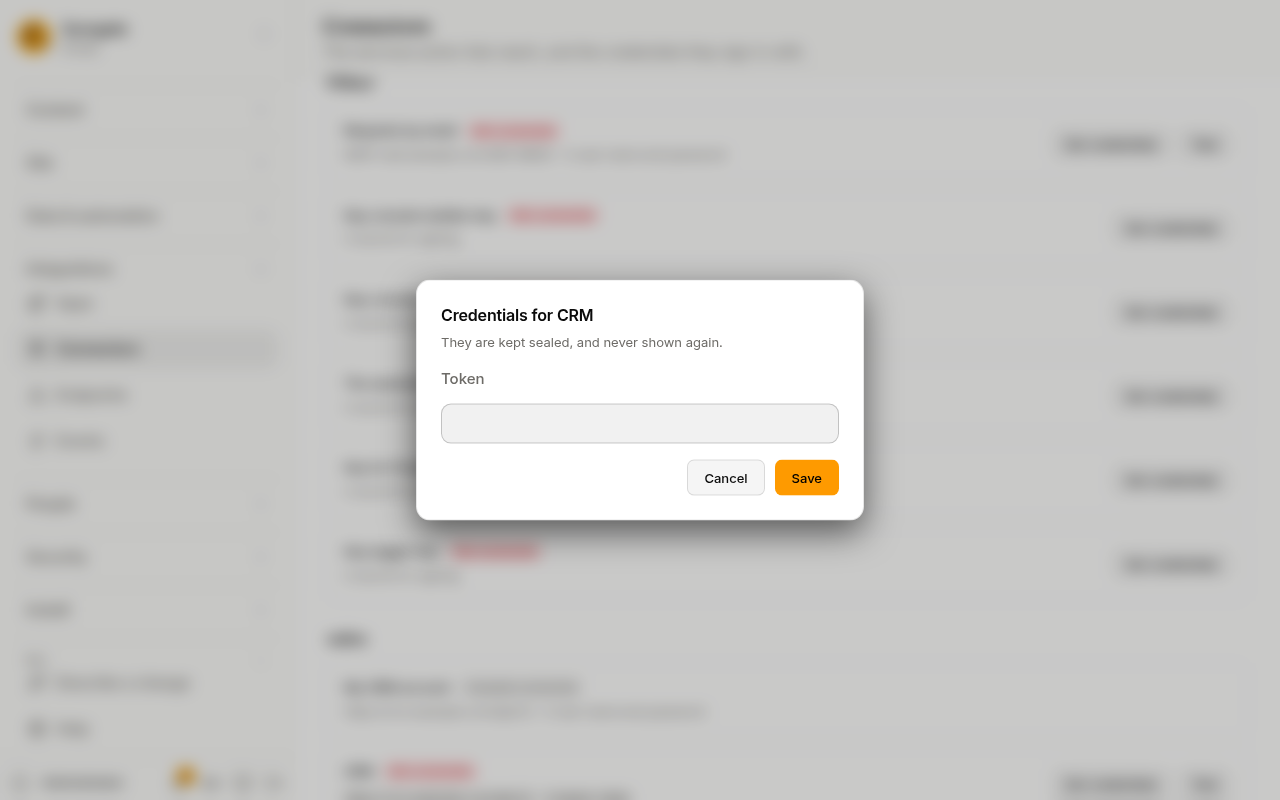
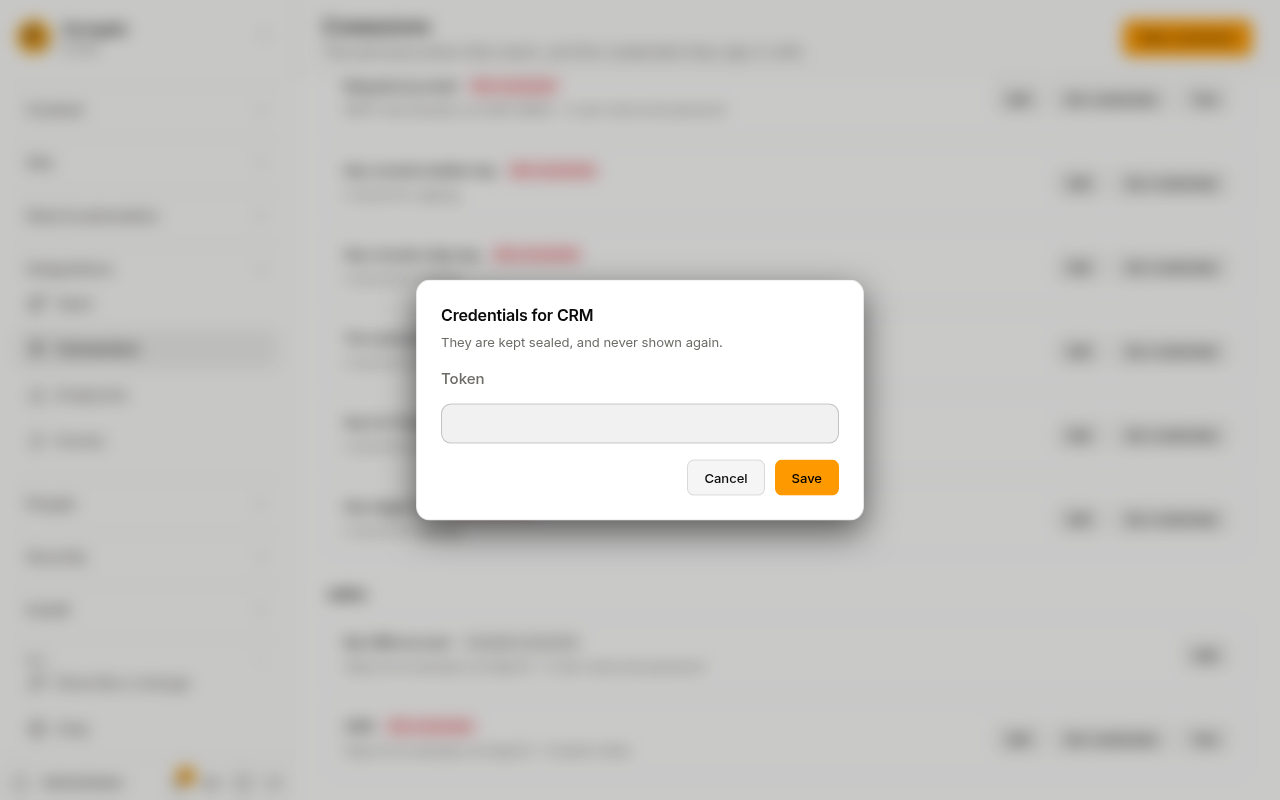
docs(portal): make and change connectors in the console

diff --git a/tests/test_content.py b/tests/test_content.py
@@ -415,8 +415,10 @@ class Content(unittest.TestCase):
                        'hashes-signatures-and-random-values', 'mailboxes', 'each-persons-own-account', 'in-tests'):
             self.assertIn(f'id="{anchor}"', doc)
         self.assertIn('id="a-connectors-file"', page('/portal/developer/connectors/'))
-        for anchor in ('set-credentials', 'test'):
+        for anchor in ('make-or-change-a-connector', 'set-credentials', 'test'):
             self.assertIn(f'id="{anchor}"', page('/portal/console/connectors/'))
+        # Connectors are made in the console.
+        self.assertNotIn('For now', (ROOT / 'src/content/docs/portal/sites/connectors.md').read_text())
         self.assertIn('id="your-connections"', page('/portal/console/account/'))
         self.assertIn('href="/portal/sites/connectors/#call-a-service"', page('/portal/sites/actions/'))
         for path in ('sites/connectors.md', 'console/connectors.md'):

diff --git a/src/content/docs/portal/sites/connectors.md b/src/content/docs/portal/sites/connectors.md
@@ -9,7 +9,7 @@ A connector is a named connection to a service outside the portal: a CRM, a paym
 
 **Administrators** see the portal's connectors under [Connectors](/portal/console/connectors/) in the console, grouped by the group each connector is given. Each shows its name, its address, how it signs in, and whether it is connected:
 
-![The Connectors page: the mailbox "Requests by email" and several keys, each marked Not connected with Set credentials, and below them the group sales with "My CRM account" and "CRM".](../../../../assets/screenshots/portal-connectors-console.png)
+![The Connectors page with New connector: Cloud archive, Requests by email and the portal's keys, each Not connected, each with Edit and Set credentials, and Test for those that can be tested.](../../../../assets/screenshots/portal-connectors-console.png)
 
 **Set credentials** asks for what the connector's sign-in needs. A token, here, for a connector that signs in with one:
 
@@ -27,7 +27,7 @@ A connector is one of these kinds:
 - a secret connector is a key the portal signs with, which makes no calls;
 - a mailbox connector is a mail address a [job](/portal/sites/jobs/#when-mail-arrives) reads (see [Mailboxes](#mailboxes)).
 
-The console lists connectors and sets their credentials, but it does not make or change a connector yet. For now, this is set in the site's configuration: see [Developer: Connectors](/portal/developer/connectors/#a-connectors-file).
+Connectors are made, changed and given their credentials in the console: see [Connectors](/portal/console/connectors/#make-or-change-a-connector). Developers can also write it in the site's configuration: see [Developer: Connectors](/portal/developer/connectors/#a-connectors-file).
 
 ## Credentials
 
@@ -39,7 +39,7 @@ Credentials go only over https, unless the portal is installed to reach private 
 
 ## Call a service
 
-An action list calls a service through a connector. A call has a method (GET when none is named, POST, PUT, PATCH or DELETE), a path under the connector's address, query values, a body and headers of its own. The answer's status, headers and body are kept under a name the list chooses, and a JSON body is read into values. For now, this is set in the site's configuration: see [Developer: Connectors](/portal/developer/connectors/#call-a-service-from-an-action-list).
+An action list calls a service through a connector. A call has a method (GET when none is named, POST, PUT, PATCH or DELETE), a path under the connector's address, query values, a body and headers of its own. The answer's status, headers and body are kept under a name the list chooses, and a JSON body is read into values. In the console, it is the action **Call a web service** in any action list: a form's [steps](/portal/console/forms/#steps), an endpoint's, a job's or a flow's actions. Developers can also write it in the site's configuration: see [Developer: Connectors](/portal/developer/connectors/#call-a-service-from-an-action-list).
 
 - **Where it goes:** a path is added under the connector's address. It can never climb above it or reach another site. A header of its own cannot replace the sign-in header or the request's own. A GET or DELETE sends no body.
 - **When it fails:**
@@ -53,7 +53,7 @@ An action list calls a service through a connector. A call has a method (GET whe
 
 ## Email
 
-An action list sends an email. For now, this is set in the site's configuration: see [Developer: Connectors](/portal/developer/connectors/#send-an-email-from-an-action-list).
+An action list sends an email. In the console, it is the action **Send an email** in an action list: a form's [steps](/portal/console/forms/#steps), or a job's or a flow's actions. Developers can also write it in the site's configuration: see [Developer: Connectors](/portal/developer/connectors/#send-an-email-from-an-action-list).
 
 - **When it goes:** the email leaves only once the whole run ends well. If a later action fails, nothing is sent.
 - **Limits:** a portal sends mail to at most 500 addresses an hour. A run sends to at most 10 addresses, or 2 when nobody is signed in.
@@ -69,13 +69,13 @@ A mail account connector sends your forms' and jobs' email from your own address
 - **Microsoft 365:** an app registered in your Microsoft Entra directory, with the **Mail.Send** application permission and a client secret. Email goes out from the sender's mailbox; it is not kept in its Sent Items.
 - **Google Workspace:** a service account with domain-wide delegation for `https://www.googleapis.com/auth/gmail.send`. Paste its JSON key file whole; the portal checks it when you save it.
 
-The console sets a mail account's credentials, but it does not make the account yet. For now, this is set in the site's configuration: see [Developer: Connectors](/portal/developer/connectors/#a-mail-accounts-file).
+A mail account is made in the console as a connector of the kind **A mail account**: see [Make or change a connector](/portal/console/connectors/#make-or-change-a-connector). Developers can also write it in the site's configuration: see [Developer: Connectors](/portal/developer/connectors/#a-mail-accounts-file).
 
 **Test** signs in to the service without sending anything, and says what is wrong: a secret Microsoft refuses, an app without Mail.Send, a key Google refuses. The credentials are kept for that service, sender and server alone; when one of them changes, set them again. An email already waiting goes out only through the account as it was when the email was queued; one that waits for an account not yet connected is tried again later.
 
 ## Text messages and Slack
 
-An action list can send a text message through Twilio or Clickatell, and post to a Slack channel, each through its connector. For now, this is set in the site's configuration: see [Developer: Connectors](/portal/developer/connectors/#a-text-message-and-a-slack-post).
+An action list can send a text message through Twilio or Clickatell, and post to a Slack channel, each through its connector. In the console, they are the actions **Send a text message** and **Post to Slack** in an action list: a form's [steps](/portal/console/forms/#steps), or a job's or a flow's actions. Developers can also write it in the site's configuration: see [Developer: Connectors](/portal/developer/connectors/#a-text-message-and-a-slack-post).
 
 - **When they go:** as emails do, only once the whole run ends well, and then from a queue: a service that is busy or does not answer is tried again after 1, 2, 4… minutes. A message is never sent twice, and never through a connector that changed since.
 - **Numbers:** international numbers, such as `+40712345678`; spaces, dots, dashes, brackets and a written `(0)` are taken out. A run texts at most 10 numbers, or 2 when nobody is signed in. A job texts as nobody unless it runs as someone.
@@ -89,17 +89,17 @@ An action list can send a text message through Twilio or Clickatell, and post to
 - **Text messages:** a text message connector names Twilio or Clickatell and the sender: a number, a Twilio Messaging Service, or a Clickatell sender name. Set Twilio's auth token or Clickatell's API key under **Connectors**; **Test** reads the account without sending anything.
 - **Slack:** a Slack connector is a Slack incoming webhook. Create one in Slack for the channel, and paste its address, `https://hooks.slack.com/services/…`, under **Connectors**. It has no Test: a test would show in the channel.
 
-The console sets these accounts' credentials, but it does not make the connector yet. For now, this is set in the site's configuration: see [Developer: Connectors](/portal/developer/connectors/#a-text-message-and-a-slack-post).
+These are made in the console as connectors of the kinds **Text messages** and **A Slack channel**: see [Make or change a connector](/portal/console/connectors/#make-or-change-a-connector). Developers can also write it in the site's configuration: see [Developer: Connectors](/portal/developer/connectors/#a-text-message-and-a-slack-post).
 
 ## Hashes, signatures and random values
 
-An action list can work out a hash (sha256, sha384 or sha512), sign with a secret connector's key, which must be at least 32 bytes long, make 16 to 64 random bytes as text (32 when the list names no number), or make a random id. For now, this is set in the site's configuration: see [Developer: Connectors](/portal/developer/connectors/#hashes-signatures-and-random-values).
+An action list can work out a hash (sha256, sha384 or sha512), sign with a secret connector's key, which must be at least 32 bytes long, make 16 to 64 random bytes as text (32 when the list names no number), or make a random id. In the console, these are actions of the **Values** section of any action list. Developers can also write it in the site's configuration: see [Developer: Connectors](/portal/developer/connectors/#hashes-signatures-and-random-values).
 
 A signature signs whatever the list gives it. Do not sign what a visitor typed unless that is the point.
 
 ## Mailboxes
 
-A mailbox connector lets a [job](/portal/sites/jobs/#when-mail-arrives) read the mail that arrives at an address. For now, this is set in the site's configuration: see [Developer: Connectors](/portal/developer/connectors/#a-mailboxs-file).
+A mailbox connector lets a [job](/portal/sites/jobs/#when-mail-arrives) read the mail that arrives at an address. It is made in the console as a connector of the kind **A mailbox**: see [Make or change a connector](/portal/console/connectors/#make-or-change-a-connector). Developers can also write it in the site's configuration: see [Developer: Connectors](/portal/developer/connectors/#a-mailboxs-file).
 
 - **Credentials:** the mailbox's username and password, set under **Connectors**. They are kept for that server alone; when the host, port, protocol or security changes, set them again.
 - **Test:** **Test** signs in and opens the folder.
@@ -108,7 +108,7 @@ The portal only reads. It never marks, moves or deletes a message, so keep the m
 
 ## Buckets
 
-A bucket connector names a bucket of an S3-compatible storage service, such as Amazon S3, Cloudflare R2, MinIO or Garage. [Folders](/portal/console/files/#where-files-are-kept) keep their files in it. For now, this is set in the site's configuration: see [Developer: Connectors](/portal/developer/connectors/#a-buckets-file).
+A bucket connector names a bucket of an S3-compatible storage service, such as Amazon S3, Cloudflare R2, MinIO or Garage. [Folders](/portal/console/files/#where-files-are-kept) keep their files in it. It is made in the console as a connector of the kind **A bucket (S3)**: see [Make or change a connector](/portal/console/connectors/#make-or-change-a-connector). Developers can also write it in the site's configuration: see [Developer: Connectors](/portal/developer/connectors/#a-buckets-file).
 
 - **Credentials:** the bucket's access key ID and secret access key, set under **Connectors**. They are kept for that service, bucket and region alone; when one of them changes, set the keys again. Give the keys only what the folders need: listing, reading, writing and deleting under their prefixes.
 - **Test:** **Test** reads the bucket's first file name, to show that it answers to the keys.
@@ -118,7 +118,7 @@ A bucket connector names a bucket of an S3-compatible storage service, such as A
 
 ## File servers
 
-A file server connector names an FTP, FTPS or SFTP server. The [file management actions](/portal/sites/file-management/#files-on-a-server) send files to it, fetch them from it, list its directories and remove files there. For now, this is set in the site's configuration: see [Developer: Connectors](/portal/developer/connectors/#a-file-servers-file).
+A file server connector names an FTP, FTPS or SFTP server. The [file management actions](/portal/sites/file-management/#files-on-a-server) send files to it, fetch them from it, list its directories and remove files there. It is made in the console as a connector of the kind **An FTP or SFTP server**: see [Make or change a connector](/portal/console/connectors/#make-or-change-a-connector). Developers can also write it in the site's configuration: see [Developer: Connectors](/portal/developer/connectors/#a-file-servers-file).
 
 - **Credentials:** a user name and a password, set under **Connectors**. An SFTP server can take a private key instead of a password: paste the private key, beginning `BEGIN OPENSSH PRIVATE KEY`, `BEGIN RSA PRIVATE KEY` or `BEGIN EC PRIVATE KEY`, without a passphrase. The portal checks the key when you save it, and refuses a public key or one it cannot read. A server that asks for the password as a question of its own (keyboard-interactive) gets it too. The credentials are kept for that server, port, protocol and key alone; when one of them changes, set them again.
 - **Known servers:** an SFTP server is known by its key. Give the connector the server's fingerprint, as `ssh-keygen -lf` prints it; a server with several keys can have up to five. A server showing another key is not used, and **Test** says which key it showed.
@@ -133,6 +133,6 @@ A [named value](/portal/sites/values/) kept for the whole portal or a site never
 
 ## In tests
 
-A [flow's tests](/portal/sites/flows/#tests) never reach out. Each web call is answered by the answers the test gives for that connector, and each email is listed in the result, never sent. For now, this is set in the site's configuration: see [Developer: Connectors](/portal/developer/connectors/#a-test-that-mocks-the-service).
+A [flow's tests](/portal/sites/flows/#tests) never reach out. Each web call is answered by the answers the test gives for that connector, and each email is listed in the result, never sent. In the console, a test gives them under **More**, as **Answers to web calls**: see [Make or change a flow](/portal/console/flows/#make-or-change-a-flow). Developers can also write it in the site's configuration: see [Developer: Connectors](/portal/developer/connectors/#a-test-that-mocks-the-service).
 
 A test's answer matches the call's method and its path, without the query. A call that no answer covers fails the test. In a test, signing uses a fixed test key, never the connector's secret.

diff --git a/src/content/docs/portal/console/connectors.md b/src/content/docs/portal/console/connectors.md
@@ -5,7 +5,25 @@ description: Setting, removing and testing the credentials of the portal's conne
 
 **Connectors** shows administrators the portal's [connectors](/portal/sites/connectors/), grouped by the group each is given. Each shows its name, its address, how it signs in, and whether it is connected. A connector each person connects themselves shows how many people did.
 
-The console does not make or change connectors yet. For now, this is set in the site's configuration: see [Developer: Connectors](/portal/developer/connectors/).
+**New connector** makes one and **Edit** changes one: see [Make or change a connector](#make-or-change-a-connector). Developers can also write connectors in the site's configuration: see [Developer: Connectors](/portal/developer/connectors/).
+
+## Make or change a connector
+
+**New connector** asks for its id (lower-case letters, digits and hyphens, fixed once saved), its name and description in each language, a group to list it under, and its **Kind**:
+
+- **A web service:** its address, how it **Signs in** (nothing, a token, a user and password, or a header and its name), whether **Each person connects their own account**, a **Connection test** path, and how long a call waits.
+- **A secret:** a value actions sign or check with; whether each person has their own.
+- **A mailbox:** IMAP or POP3, the server, its **Security** and **Port** (the usual port when left empty), and for IMAP the folder read.
+- **An app's connector:** the app and the connector type it defines.
+- **A bucket (S3):** the endpoint, the bucket, its region (`auto` when left empty), and whether the bucket is addressed as a host of its own.
+- **An FTP or SFTP server:** the server, its port, for FTP its security, for SFTP the server's keys (paste the lines `ssh-keygen -lf` prints) and whether the portal signs in with a password or a key, and the directory paths start from.
+- **A mail account:** SMTP, Microsoft 365 or Google Workspace, the sender's address and name, and for SMTP its server, or for Microsoft 365 the directory and app ids.
+- **Text messages:** Twilio or Clickatell, the sender, and for Twilio the account SID.
+- **A Slack channel:** its name; the channel's webhook is its credential.
+
+![The connector crm: its name in each language, its group sales, and its kind, a web service, kept since it was made.](../../../../assets/screenshots/portal-connector-edit.png)
+
+A connector keeps the kind it was made with. Each problem is said at its field, and **Save** waits until there are none; a problem in another file, such as a folder whose storage is no longer a bucket, is listed with that file. Credentials are never written in the editor: set them here once the connector is saved. A change to what its credentials are for, such as its address, server or sender, is said before **Save**: it is **Not connected** until they are set again. **Remove** takes the connector away and forgets its credentials, after asking.
 
 ## Set credentials
 
